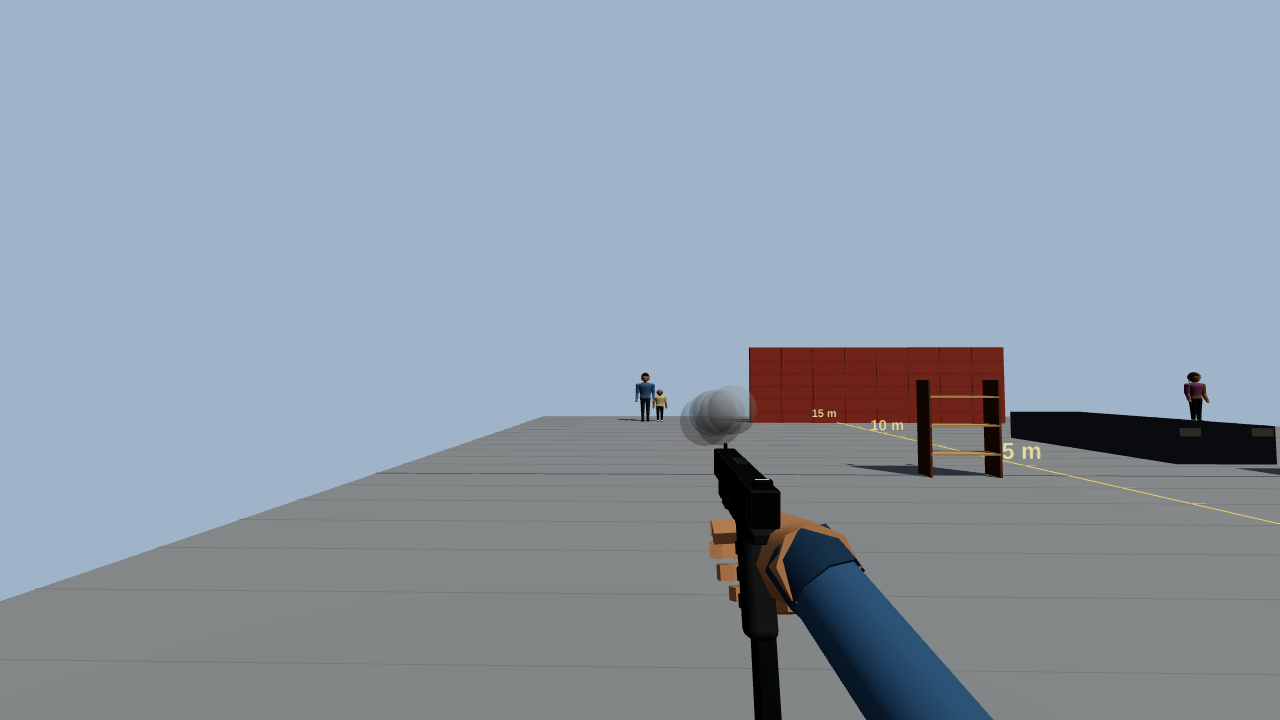
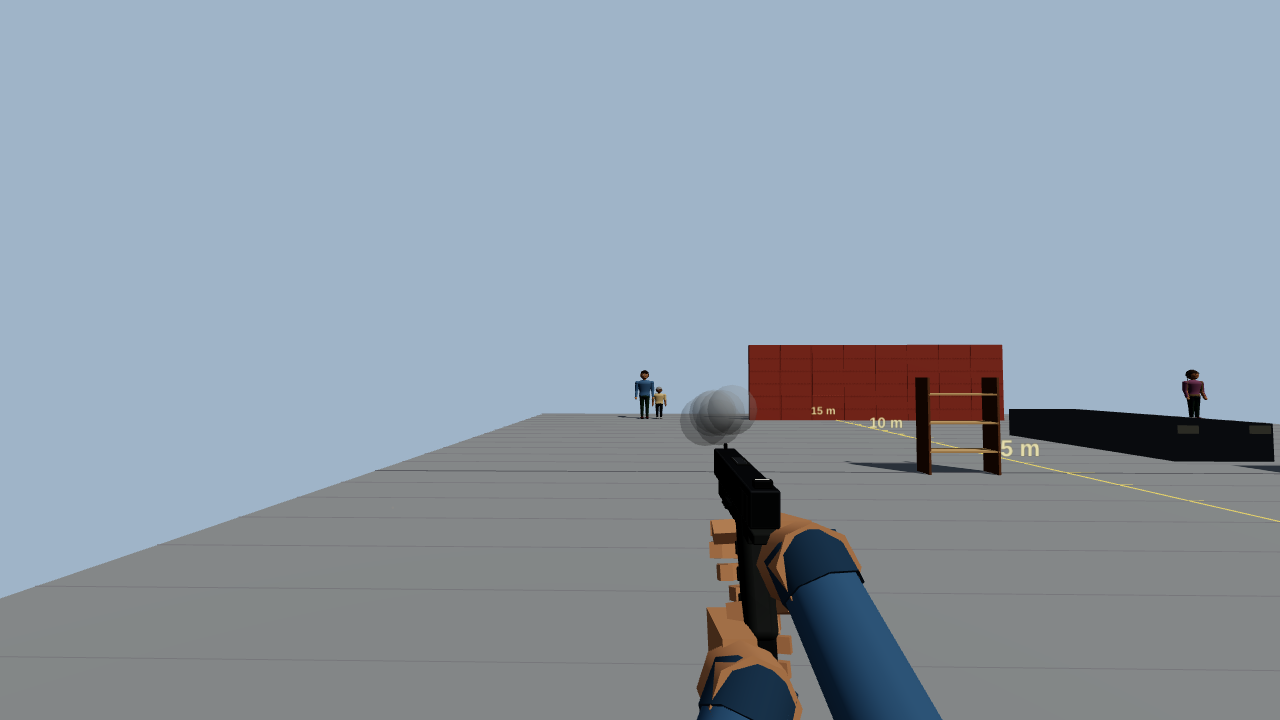
fix(game-weapons-three): support hand palm up under the handguard, pistol reload hand stays in view
The long-gun support hand is tilted so the wrist is below and left and the forearm comes from under the gun; it hangs lower; the elbow bends more downward. The handgun's reload hand dips along the grip instead of following the dropped magazine. Test: palm normal up and centre under the barrel axis (M4A1, AK-47); fp-m4 shot added.

Claude-Session: https://claude.ai/code/session_01GuPQ3pcqCNyJdQZbaF8AdD

diff --git a/packages/game-weapons-three/src/fx/hand-hold.ts b/packages/game-weapons-three/src/fx/hand-hold.ts
@@ -21,7 +21,11 @@ export const HAND_HOLD = {
   /** The grip of a long gun that has no drawn pistol grip: how far under the receiver the hand sits. */
   strapUnder: 0.04,
   /** How far lower than touching the palm hangs under a handguard, so the fingers close under it and not over it. */
-  forendDrop: 0.008,
+  forendDrop: 0.016,
+  /** How far (radians) the fingers of a support hand under a handguard rise from level. */
+  forendTilt: 0.3,
+  /** How far a handgun's support hand dips for the new magazine, along the grip. */
+  magDip: 0.045,
   /** Closure of the fingers on a grip and on a forend (0 open, 1 closed). */
   closed: 0.9,
   forend: 0.6,
@@ -96,8 +100,8 @@ const gripFrame = (THREE: Three, up: THREE_NS.Vector3, side: 1 | -1): THREE_NS.Q
   return handFrame(THREE, forward.clone().applyQuaternion(tilt), toSide.clone().applyQuaternion(tilt).multiplyScalar(side))
 }
 
-/** The palm under a forend, the fingers going to the right and closing over it, the thumb forward. */
-const forendFrame = (THREE: Three): THREE_NS.Quaternion => handFrame(THREE, V(THREE, 0, 0, 1), V(THREE, 0, -1, 0))
+/** The palm under a forend (palm up, back of the hand down), the fingers going to the right and closing up its right side, the thumb forward along its left. `tilt` raises the fingers, so the wrist is below and to the left: the forearm comes from under the gun. */
+const forendFrame = (THREE: Three, tilt = 0): THREE_NS.Quaternion => handFrame(THREE, V(THREE, 0, Math.sin(tilt), Math.cos(tilt)), V(THREE, 0, -Math.cos(tilt), Math.sin(tilt)))
 
 /** The hold of a gallery model: the right hand on the pistol grip, the left on the forend (or wrapped under the right on a handgun), on the pump of a pump gun, on the magazine while it is changed. */
 export function holdOfModel(THREE: Three, model: WeaponModel, holderScale: number): Hold {
@@ -138,14 +142,15 @@ export function holdOfModel(THREE: Three, model: WeaponModel, holderScale: numbe
   } else if (frames) {
     const handguardHeight = frames.receiverHeight * 0.8
     const x = frames.receiverEnd + (frames.handguardEnd - frames.receiverEnd) * HAND_HOLD.forendAt
-    left = { part: root, offset: toRoot(x, frames.barrelY - handguardHeight / 2 - HAND_HOLD.palm - HAND_HOLD.forendDrop, 0), quaternion: forendFrame(THREE) }
+    left = { part: root, offset: toRoot(x, frames.barrelY - handguardHeight / 2 - HAND_HOLD.palm - HAND_HOLD.forendDrop, 0), quaternion: forendFrame(THREE, HAND_HOLD.forendTilt) }
   }
   if (left && parts.mag) {
     const box = new THREE.Box3().setFromObject(parts.mag)
     const center = box.getCenter(new THREE.Vector3())
     // the magazine well of a handgun is inside the grip: the hand goes under its base, where the new magazine is slapped in
-    const local = parts.mag.worldToLocal(V(THREE, center.x, box.min.y - HAND_HOLD.palm - (handgun ? 0.02 : 0), center.z))
-    leftMagazine = { part: parts.mag, offset: local, quaternion: forendFrame(THREE) }
+    const local = parts.mag.worldToLocal(V(THREE, center.x, box.min.y - HAND_HOLD.palm, center.z))
+    // a handgun's new magazine comes from the belt: the hand dips a little along the grip and stays in the view; a long gun's goes under its magazine
+    leftMagazine = handgun && left ? { part: root, offset: left.offset.clone().addScaledVector(up, -HAND_HOLD.magDip), quaternion: left.quaternion } : { part: parts.mag, offset: local, quaternion: forendFrame(THREE) }
   }
   return {
     right,

diff --git a/packages/game-weapons-three/tests/hand-targets.test.ts b/packages/game-weapons-three/tests/hand-targets.test.ts
@@ -154,4 +154,29 @@ describe('hand targets of the weapon in the hands', () => {
     expect(along).toBeLessThan(0.9)
     expect(left.y).toBeLessThan(0)
   })
+
+  it.each(['colt_m4a1', 'ak_47'])('%s: the support hand is palm up, under the handguard axis', (weapon) => {
+    const { room, last } = roomWithRecorder()
+    equip(room, weapon)
+    const viewmodel = room.scene.getObjectByName('weapon-viewmodel')!
+    viewmodel.updateWorldMatrix(true, true)
+    const inverse = viewmodel.matrixWorld.clone().invert()
+    const world = viewmodel.getWorldQuaternion(new THREE.Quaternion())
+    const pose = last()!.targets!.L!
+    // the palm is the -y side of the hand frame; in the weapon's space it must face up
+    const palm = new THREE.Vector3(0, -1, 0).applyQuaternion(new THREE.Quaternion(...pose.quaternion)).applyQuaternion(world.clone().invert())
+    expect(palm.y).toBeGreaterThan(0.7)
+    // the barrel axis: the middle height of what lies at the muzzle end
+    const whole = new THREE.Box3().setFromObject(viewmodel).applyMatrix4(inverse)
+    const heights: number[] = []
+    viewmodel.traverse((object) => {
+      const mesh = object as THREE.Mesh
+      if (!mesh.isMesh) return
+      const box = new THREE.Box3().setFromObject(mesh).applyMatrix4(inverse)
+      if (box.min.z < whole.min.z + 0.05) heights.push((box.min.y + box.max.y) / 2)
+    })
+    const axis = heights.reduce((a, b) => a + b, 0) / heights.length
+    const centre = new THREE.Vector3(...pose.position).applyMatrix4(inverse)
+    expect(centre.y).toBeLessThan(axis - 0.015)
+  })
 })
